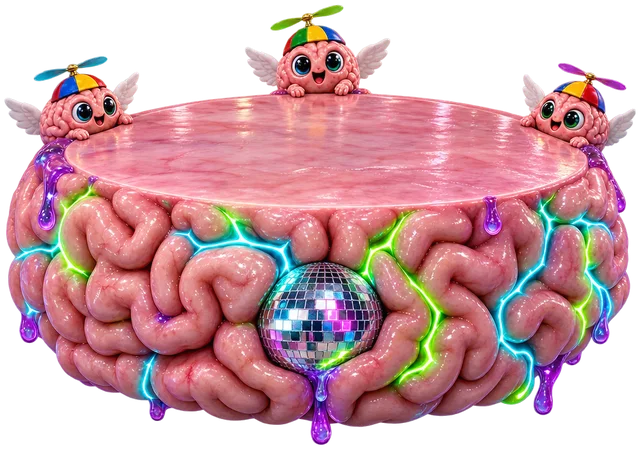
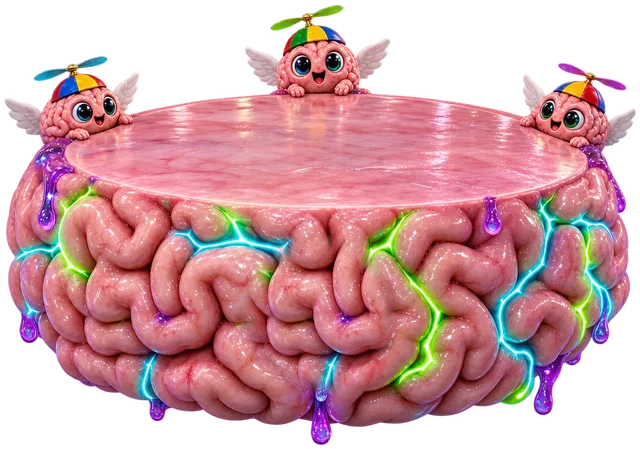
Brainrot: the buyback ring over the stage again (a phone lost it), the disco ball sits in the ring, the stage's painted ball gone (6.11.)

Changed region(s): [[0.375, 0.5301, 0.625, 0.8731]]

diff --git a/dashboard/terminal/terminal.js b/dashboard/terminal/terminal.js
@@ -7520,7 +7520,7 @@ window.__btBrSeason = brSeason;
   // HIS STAGE (operator, 2026-11-05: "give BOBAI something to stand on again, like the gravestone, brainrot style"): a
   // brain-shaped platform under his feet, sized and placed as the Halloween stone was (feet = the figure's centre + 40.5 %
   // of its height; 1.9x his width, a phone 1.3x)
-  let stage = null, disco = null;
+  let stage = null, disco = null, ring = null, rc = null; const rgW = new THREE.Vector3();
   function dress() {
     stL.replaceChildren();
     stage = document.createElement('div'); stage.className = 'br-stage'; stage.style.visibility = 'hidden'; stage.innerHTML = '<img alt="" draggable="false" src="' + pic('podium') + '">'; stL.appendChild(stage);
@@ -7530,6 +7530,7 @@ window.__btBrSeason = brSeason;
     // THE DISCO BALL (operator: "the disco ball can come alive or switch on sometimes"; 5.11. night: "the disco ball should
     // be SEEN" — the stations' creatures stood on the stage's painted ball): its own picture, laid exactly over the painted
     // one but drawn after every costume, so nothing stands on it; it sparkles always, its beams switch on now and then
+    const rw = document.createElement('div'); rw.innerHTML = '<svg class="br-ring" viewBox="-0.7 -0.7 1.4 1.4" style="visibility:hidden"></svg>'; ring = rw.firstChild; stL.appendChild(ring);
     disco = document.createElement('div'); disco.className = 'br-disco'; disco.style.visibility = 'hidden'; disco.innerHTML = '<img alt="" draggable="false" src="' + pic('disco') + '"><i></i><b></b>'; stL.appendChild(disco);
   }
   let stick = false;
@@ -7542,14 +7543,22 @@ window.__btBrSeason = brSeason;
     if (stage && A.figScreen) { const feet = A.figScreen.y + A.figHpx * 0.405, room = Math.max(40, (el.clientHeight || H()) - 6 - feet) / 0.7; /* operator: "show the whole stage": its lower 70 % must fit above the scene's bottom */
       const dW = Math.round(Math.max(90, Math.min(portrait ? 280 : 580, (A.figW || A.figHpx * 0.5) * (portrait ? 1.3 : 1.9), room * 640 / 449))), dH = Math.round(dW * 449 / 640);
       const sx = Math.round(A.figScreen.x - dW / 2), sy = Math.round(feet - dH * 0.3), tf = 'translate(' + sx + 'px,' + sy + 'px)'; if (stage._tf !== tf) { stage.style.transform = stage._tf = tf; stage.style.visibility = ''; } if (stage._w !== dW) stage.style.width = (stage._w = dW) + 'px';
-      // the ball: centre at 50 % / 70 % of the podium picture, 126 of its 640 px wide; drawn a little larger, it covers the painted one
-      // NOBODY HIDDEN BEHIND IT (5.11. night, phone: the $BOB station stands right on the ball): twice a second the ball
-      // looks for a place along the stage's front where no station's creature stands, the painted spot first
-      if (disco && (place.n % 30 === 0 || disco._dx === undefined)) { const bd0 = dW * 0.215, cy0 = sy + dH * 0.701, boxes = ST.filter(s => s._x !== undefined).map(s => [s._x, s._y, s._x + sz, s._y + (s.e.offsetHeight || sz)]); /* their resting places (a jump or an escape does not move the ball) */
-        const clear = dx => { const x0 = sx + dW * 0.5 + dx - bd0 / 2, y0 = cy0 - bd0 / 2; return !boxes.some(b => Math.min(b[2], x0 + bd0) - Math.max(b[0], x0) > bd0 * 0.15 && Math.min(b[3], y0 + bd0) - Math.max(b[1], y0) > bd0 * 0.15); };
-        const dx = [0, -0.7, 0.7, -1.3, 1.3, -1.9, 1.9].map(k => k * bd0).find(d => Math.abs(d) < dW * 0.36 && clear(d)); disco._dx = dx ?? 0;
-        disco.style.zIndex = dx === undefined ? '-1' : ''; /* no free place at all: the ball goes behind the creatures */ }
-      if (disco) { const bd = Math.round(dW * 0.215), dt = 'translate(' + Math.round(sx + dW * 0.5 + (disco._dx || 0) - bd / 2) + 'px,' + Math.round(sy + dH * 0.701 - bd / 2) + 'px)'; if (disco._tf !== dt) { disco.style.transform = disco._tf = dt; disco.style.visibility = ''; } if (disco._w !== bd) disco.style.width = disco.style.height = (disco._w = bd) + 'px'; } }
+    }
+    // THE BALL IN THE RING (operator, 2026-11-06: "the ring is needed at the next buyback, and on a phone it is gone" — the
+    // stage covered it there — "put the disco ball in the ring, it has a good place there"): the buyback ring is drawn on
+    // this layer, over the stage, from the scene's own arcs (the scene's ring is off meanwhile), and the ball sits in its
+    // middle; the stage's painted ball is gone (br_pack.py no_ball), so there is one ball
+    rc = null;
+    if (ring) { const c = toScreen(A.core); rgW.copy(A.core); rgW.x += 0.7 * ringBg.scale.x; const R = Math.max(14, Math.abs(toScreen(rgW).x - c.x)); rc = { x: c.x, y: c.y, R };
+      const tf = 'translate(' + Math.round(c.x - R) + 'px,' + Math.round(c.y - R) + 'px)', d = Math.round(2 * R); if (ring._tf !== tf) { ring.style.transform = ring._tf = tf; ring.style.visibility = ''; } if (ring._w !== d) ring.style.width = ring.style.height = (ring._w = d) + 'px';
+      if (ring._v !== ringVer) { ring._v = ringVer; const pt = a => (0.64 * Math.cos(a)).toFixed(4) + ' ' + (-0.64 * Math.sin(a)).toFixed(4);
+        ring.innerHTML = '<circle r="0.64" class="b"/>' + DEST.map((dd, i) => { const m = ringFgs[i], g = m.geometry.parameters, len = -g.thetaLength; if (!m.visible || !(len > 0.0005)) return '';
+          if (len > Math.PI * 2 - 0.001) return '<circle r="0.64" stroke="' + dd.c + '"/>';
+          return '<path stroke="' + dd.c + '" d="M' + pt(g.thetaStart) + 'A0.64 0.64 0 ' + (len > Math.PI ? 1 : 0) + ' 1 ' + pt(g.thetaStart - len) + '"/>'; }).join(''); }
+      if (disco) { const bd = Math.round(R * 1.62), dt = 'translate(' + Math.round(c.x - bd / 2) + 'px,' + Math.round(c.y - bd / 2) + 'px)'; if (disco._tf !== dt) { disco.style.transform = disco._tf = dt; disco.style.visibility = ''; } if (disco._w !== bd) disco.style.width = disco.style.height = (disco._w = bd) + 'px'; } }
+    if (ringBg.material.visible) { ringBg.material.visible = false; for (const m of ringFgs) m.material.visible = false; }
+    // a station's creature standing in the ring steps aside (a phone: $BOB stands right under it), the ball stays seen
+    const shove = q => { if (!rc) return 0; const top = q.y - sz * 0.78, gap = rc.R + sz * 0.34, dx = q.x - rc.x; if (Math.abs(dx) >= gap || top + sz < rc.y - rc.R * 0.8 || top > rc.y + rc.R * 0.8) return 0; return (dx >= 0 ? 1 : -1) * gap - dx; };
     // NO CIRCLES OF THE STANDARD TERMINAL (operator, 2026-11-05 night: "the circles at BOBAI burn, BOB burn and so on must
     // not be there in brainrot"): the stations' black holes, liquid, gyroscope, coin, orbs and halos stay hidden while the
     // look is on (applyPhase sets them again at every new split, so this holds them each frame); the buyback ring stays
@@ -7558,7 +7567,7 @@ window.__btBrSeason = brSeason;
     // the bob is part of the one transform written here (a CSS bob on top of it was a second moving layer on each of twelve
     // costumes: 19 fps instead of 41 at 1024, brainrot.mjs rule 7); whole pixels, so an unchanged frame writes nothing
     const now = performance.now() / 1000;
-    for (const s of ST) { if (!s.pos) continue; const q = toScreen(s.pos), ph = s.ph ??= Math.random() * 6.28, b = Math.sin(now * 2.6 + ph), tf = 'translate(' + Math.round(q.x - sz / 2) + 'px,' + Math.round(q.y - sz * 0.78 - (b + 1) * sz * 0.07) + 'px) rotate(' + Math.round(b * 6) + 'deg)';
+    for (const s of ST) { if (!s.pos) continue; const q0 = toScreen(s.pos), q = { x: q0.x + shove(q0), y: q0.y }, ph = s.ph ??= Math.random() * 6.28, b = Math.sin(now * 2.6 + ph), tf = 'translate(' + Math.round(q.x - sz / 2) + 'px,' + Math.round(q.y - sz * 0.78 - (b + 1) * sz * 0.07) + 'px) rotate(' + Math.round(b * 6) + 'deg)';
       s._x = q.x - sz / 2; s._y = q.y - sz * 0.78;
       if (s._tf !== tf) { s.e.style.transform = s._tf = tf; s.e.style.visibility = ''; } if (s._w !== sz) { s.e.style.width = (s._w = sz) + 'px'; } }
     for (const b of BOTS) { const q = toScreen(b.w.pos), tf = 'translate(' + Math.round(q.x - bz / 2) + 'px,' + Math.round(q.y - bz * 0.7) + 'px)', op = b.w.pos.z > A.head.z ? '1' : '.4';
@@ -7627,8 +7636,8 @@ window.__btBrSeason = brSeason;
     tS = setTimeout(() => { if (free()) MOVES.run(CREW.find(c => c.n === 'snail')); snailBeat(); }, R(5000, 8000)); tK = setTimeout(() => { if (free()) kaiju(); kaijuBeat(); }, R(12000, 18000));
     if (!stick) { stick = true; requestAnimationFrame(place); } }
   // the standard terminal gets its circles back (the same rule as applyPhase: a station with a share)
-  const circles = () => { for (const d of DEST) { const v = d.pct > 0; if (d.obj) d.obj.visible = v; d.orb.visible = v && !d.obj; d.halo.visible = v; } srcOrb.visible = true; };
-  function stop() { const was = ST.length > 0; clearTimeout(tA); clearTimeout(tB); clearTimeout(lineT); clearTimeout(tJ); clearTimeout(tS); clearTimeout(tK); stL.replaceChildren(); ST = []; BOTS = []; disco = stage = null; if (was) circles(); for (const a of el.getAnimations({ subtree: true })) a.cancel(); el.replaceChildren(); capL.replaceChildren(); alive = 0; }
+  const circles = () => { for (const d of DEST) { const v = d.pct > 0; if (d.obj) d.obj.visible = v; d.orb.visible = v && !d.obj; d.halo.visible = v; } srcOrb.visible = true; ringBg.material.visible = true; for (const m of ringFgs) m.material.visible = true; };
+  function stop() { const was = ST.length > 0; clearTimeout(tA); clearTimeout(tB); clearTimeout(lineT); clearTimeout(tJ); clearTimeout(tS); clearTimeout(tK); stL.replaceChildren(); ST = []; BOTS = []; disco = stage = ring = rc = null; if (was) circles(); for (const a of el.getAnimations({ subtree: true })) a.cancel(); el.replaceChildren(); capL.replaceChildren(); alive = 0; }
 
   // the switch: a brain at the LIVE pill, placed exactly as the Halloween pumpkin was (the same rules, the same classes)
   const sw = document.createElement('button'); sw.type = 'button'; sw.className = 'hw-sw br-sw'; sw.id = 'bt-br';

diff --git a/dashboard/brain/index.html b/dashboard/brain/index.html
@@ -246,10 +246,10 @@
     addEventListener('pageshow',function(e){if(e.persisted)top()});
   })();</script>
 
-<link rel="stylesheet" href="brain/brain.css?v=1793914773404">
+<link rel="stylesheet" href="brain/brain.css?v=1793938577709">
 <!-- BOBAI himself first (2026-09-30): his still was asked for only when the scene opened, after three.js — 6.7 s on a slow phone -->
 <link rel="preload" href="terminal/fig/idle.webp" as="image" fetchpriority="high">
-<link rel="stylesheet" href="terminal/terminal.css?v=1793914015">
+<link rel="stylesheet" href="terminal/terminal.css?v=1793937048">
 </head>
 <body class="brainpage">
 <div class="bp-h" role="banner">
@@ -1488,9 +1488,9 @@
 <script>/* the phone layout before terminal.js arrives (2026-09-27: on a slow line the desktop layout showed for seconds) */(()=>{const w=document.getElementById("bt-win"),r=w.getBoundingClientRect();if(r.width&&r.height>r.width*1.05)w.classList.add("portrait")})()</script>
 <script type="module">
 // the terminal opens with the page: it IS the page
-(async () => { try { (await import('./terminal/terminal.js?v=1793914015')).open(); } catch (e) { const i = document.getElementById('bt-intro'); if (i) i.textContent = 'BRAIN OFFLINE · RELOAD'; } })();
+(async () => { try { (await import('./terminal/terminal.js?v=1793937048')).open(); } catch (e) { const i = document.getElementById('bt-intro'); if (i) i.textContent = 'BRAIN OFFLINE · RELOAD'; } })();
 </script>
-<script src="brain/brain.js?v=1793914773405" defer></script>
-<script src="brain/cards.js?v=1793914773405" defer></script>
-<script src="brain/hero.js?v=1793914773405" defer></script>
+<script src="brain/brain.js?v=1793938577710" defer></script>
+<script src="brain/cards.js?v=1793938577710" defer></script>
+<script src="brain/hero.js?v=1793938577710" defer></script>
 </body></html>

diff --git a/dashboard/terminal/terminal.css b/dashboard/terminal/terminal.css
@@ -1169,6 +1169,11 @@
 /* 5.11. night (operator: "the disco ball should be seen"): its own picture over the painted one, drawn after the stations'
  * creatures; it sways and sparkles always, the beams turn out of its middle when it switches on */
 #bt .br-stl .br-disco{position:absolute;left:0;top:0;pointer-events:none;will-change:transform}
+/* 6.11. (operator: "the ring is needed at the next buyback; put the disco ball in the ring"): the buyback ring on this
+ * layer, over the stage, brighter than the scene's (the cosmos behind it is loud), the ball in its middle */
+#bt .br-stl .br-ring{position:absolute;left:0;top:0;width:0;height:0;overflow:visible;pointer-events:none;filter:drop-shadow(0 0 4px rgba(255,255,255,.45))}
+#bt .br-stl .br-ring circle,#bt .br-stl .br-ring path{fill:none;stroke-width:.12;stroke-opacity:.92}
+#bt .br-stl .br-ring .b{stroke:#fff;stroke-opacity:.22}
 #bt .br-stl .br-disco img{position:relative;z-index:1;display:block;width:100%;height:100%;border-radius:50%;animation:bt-br-ball 2.4s ease-in-out infinite alternate}
 @keyframes bt-br-ball{0%{transform:rotate(-7deg)}100%{transform:rotate(7deg)}}
 #bt .br-stl .br-disco b{position:absolute;z-index:2;inset:0;pointer-events:none;background:radial-gradient(circle at 30% 28%,#fff 0 3%,transparent 9%),radial-gradient(circle at 68% 44%,#fff 0 2.5%,transparent 8%),radial-gradient(circle at 44% 72%,#fff 0 2%,transparent 7%);animation:bt-br-glint 1.3s steps(1) infinite}

diff --git a/dashboard/index.html b/dashboard/index.html
@@ -1502,7 +1502,7 @@
 <script src="app.js?v=134" defer></script>
 <!-- BOBAI BRAIN TERMINAL. The popup's shell is here; the 3D scene, three.js and the figure (≈1 MB)
      load on the first click only, so the homepage itself carries none of it. -->
-<link rel="stylesheet" href="terminal/terminal.css?v=1793914015">
+<link rel="stylesheet" href="terminal/terminal.css?v=1793937048">
 <div class="bt" id="bt" role="dialog" aria-modal="true" aria-label="BOBAI Brain Terminal">
   <div class="bt-back" data-close></div>
   <div class="bt-win" id="bt-win"><script>/* the phone layout before terminal.js arrives (2026-09-27: on a slow line the desktop layout showed for seconds) */(()=>{const w=document.getElementById("bt-win"),r=w.getBoundingClientRect();if(r.width&&r.height>r.width*1.05)w.classList.add("portrait")})()</script>
@@ -1553,7 +1553,7 @@
 let mod = null;
 async function go() {
   const bt = document.getElementById('bt');
-  if (!mod) { bt.classList.add('on'); document.getElementById('bt-intro').textContent = 'BOOTING THE BRAIN…'; mod = import('./terminal/terminal.js?v=1793914015'); }
+  if (!mod) { bt.classList.add('on'); document.getElementById('bt-intro').textContent = 'BOOTING THE BRAIN…'; mod = import('./terminal/terminal.js?v=1793937048'); }
   try { (await mod).open(); }
   catch (e) { mod = null; document.getElementById('bt-intro').textContent = 'BRAIN OFFLINE · TAP TO RETRY'; }
 }

diff --git a/temp/terminal/br_pack.py b/temp/terminal/br_pack.py
@@ -1,0 +1,73 @@
+# Brainrot props -> small web images (2026-11-05). For every creature the newest base picture and its newest frame
+# (temp/terminal/props-br/<name>-<ts>.png, <name>@<frame>-<ts>.png) are cleared of the faint alpha haze, cropped to ONE
+# box (the union of base and frame, so the two lie exactly on each other) and written LOUD (no muting: this look is
+# meant to scream) to terminal-site/terminal/br/<name>.webp and <name>_<frame>.webp. The sky is only resized.
+# usage: python temp/terminal/br_pack.py
+import glob, os, re
+from PIL import Image
+import numpy as np
+
+HERE = os.path.dirname(os.path.abspath(__file__))
+SRC = os.path.join(HERE, 'props-br')
+OUT = os.path.join(HERE, '..', 'terminal-site', 'terminal', 'br')
+os.makedirs(OUT, exist_ok=True)
+# longest side in px, about 2x the size shown
+SIZES = {'octo': 300, 'bulb': 260, 'astro': 280, 'snail': 300, 'fridge': 280, 'sock': 260, 'shrimp': 260, 'kaiju': 520,
+         'eyeball': 260, 'duck': 260, 'banana': 280, 'pigeon': 280, 'cactus': 260, 'pizza': 260, 'washer': 280,
+         'cloud': 300, 'dj': 280, 'mini': 140, 'podium': 640,
+         'stburn': 230, 'stbob': 230, 'stbobs': 230, 'stliq': 230, 'stdefi': 230, 'stgiggle': 230, 'stcreator': 230}
+newest = lambda pat: (sorted(glob.glob(os.path.join(SRC, pat))) or [None])[-1]
+
+def clean(path):
+    a = np.asarray(Image.open(path).convert('RGBA')).copy()
+    a[a[..., 3] < 24] = 0
+    e = 12; a[:e] = 0; a[-e:] = 0; a[:, :e] = 0; a[:, -e:] = 0
+    return a
+
+# THE BALL LEAVES THE STAGE (operator, 2026-11-06: "put the disco ball in the ring, it has a good place there"): the
+# painted ball is covered by the brain folds 2.9 radii to its left, a soft round patch (no second ball on the stage)
+def no_ball(a):
+    H, W = a.shape[:2]; cx, cy, r = 0.5034 * W, 0.6442 * H, 0.0968 * W  # = DISCO_AT below
+    yy, xx = np.mgrid[0:H, 0:W]; d = np.sqrt((xx - cx) ** 2 + (yy - cy) ** 2)
+    m = np.clip((r * 1.3 - d) / (r * 0.3), 0, 1)[..., None]; f = a.astype(np.float32)
+    donor = np.roll(f, int(round(2.9 * r)), axis=1)  # donor[y, x] = a[y, x - 2.9 r]
+    return (f * (1 - m) + donor * m).clip(0, 255).astype(np.uint8)
+
+total = 0
+for name, side in SIZES.items():
+    base = newest(name + '-1*.png')
+    if not base: print('MISSING', name); continue
+    frames = {}
+    for f in [x for x in glob.glob(os.path.join(SRC, name + '@*-1*.png')) if not x.endswith('.orig.png')]:  # br_cutout.py keeps the uncut original beside it
+        k = re.match(r'.*@([a-z]+)-\d+\.png$', f).group(1); frames[k] = max(frames.get(k, ''), f)
+    pics = {'': clean(base), **{k: clean(f) for k, f in frames.items()}}
+    if name == 'podium': pics[''] = no_ball(pics[''])
+    solid = np.zeros(pics[''].shape[:2], bool)
+    for a in pics.values():
+        if a.shape[:2] == solid.shape: solid |= a[..., 3] > 128
+    rows = np.where(solid.sum(axis=1) > 4)[0]; cols = np.where(solid.sum(axis=0) > 4)[0]
+    pad = 8; H, W = solid.shape
+    box = (max(0, cols.min() - pad), max(0, rows.min() - pad), min(W, cols.max() + pad), min(H, rows.max() + pad))
+    for k, a in pics.items():
+        im = Image.fromarray(a).crop(box); s = side / max(im.size)
+        im = im.resize((round(im.width * s), round(im.height * s)), Image.LANCZOS)
+        fn = name + ('_' + k if k else '') + '.webp'
+        im.save(os.path.join(OUT, fn), 'WEBP', quality=84, method=4)
+        total += os.path.getsize(os.path.join(OUT, fn))
+        print(fn, im.size, os.path.getsize(os.path.join(OUT, fn)), 'bytes')
+# THE DISCO BALL ON ITS OWN (operator, 2026-11-05 night: "the disco ball should be seen"): the stations' creatures stood on
+# the stage's painted ball; cut out round from the podium picture, it is drawn ABOVE them (disco.webp)
+DISCO_AT = (0.5034, 0.6442, 0.0968)  # the ball's centre and radius in the podium picture, shares of its width/height (in the packed podium.webp: 50 % / 70 % of the picture, radius 63 of 640 px)
+pod = newest('podium-1*.png')
+if pod:
+    im = Image.open(pod).convert('RGBA'); a = np.asarray(im).copy(); H, W = a.shape[:2]
+    cx, cy, r = DISCO_AT[0] * W, DISCO_AT[1] * H, DISCO_AT[2] * W
+    yy, xx = np.mgrid[0:H, 0:W]; d = np.sqrt((xx - cx) ** 2 + (yy - cy) ** 2)
+    a[..., 3] = (a[..., 3] * np.clip((r - d) / 3 + 0.5, 0, 1)).astype(np.uint8)
+    b = Image.fromarray(a).crop((int(cx - r - 2), int(cy - r - 2), int(cx + r + 2), int(cy + r + 2))).resize((160, 160), Image.LANCZOS)
+    b.save(os.path.join(OUT, 'disco.webp'), 'WEBP', quality=86, method=4); total += os.path.getsize(os.path.join(OUT, 'disco.webp')); print('disco.webp', os.path.getsize(os.path.join(OUT, 'disco.webp')), 'bytes')
+sky = newest('sky3-1*.png') or newest('sky2-1*.png') or newest('sky-1*.png')  # sky2 (5.11. evening): teal and orange, the pink brain stands out
+if sky:
+    Image.open(sky).convert('RGB').resize((1280, 853), Image.LANCZOS).save(os.path.join(OUT, 'sky.webp'), 'WEBP', quality=70, method=4)
+    total += os.path.getsize(os.path.join(OUT, 'sky.webp')); print('sky.webp', os.path.getsize(os.path.join(OUT, 'sky.webp')), 'bytes')
+print('total', total // 1024, 'KB')
